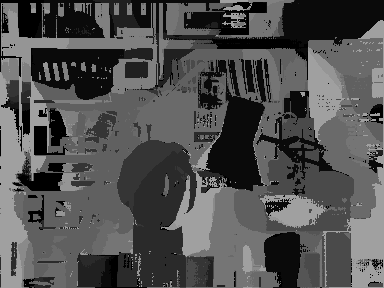
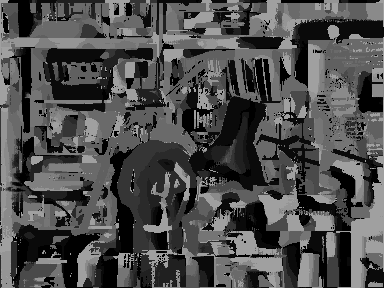
.

diff --git a/stereo_matching_cuda/SystemIncludes.h b/stereo_matching_cuda/SystemIncludes.h
@@ -18,7 +18,7 @@
 
 #define TILE_HEIGHT 12
 #define TILE_WIDTH 12
-#define RADIUS 30
+#define RADIUS 9
 
 #define EPS 6.5025
 #define D_LR 0
